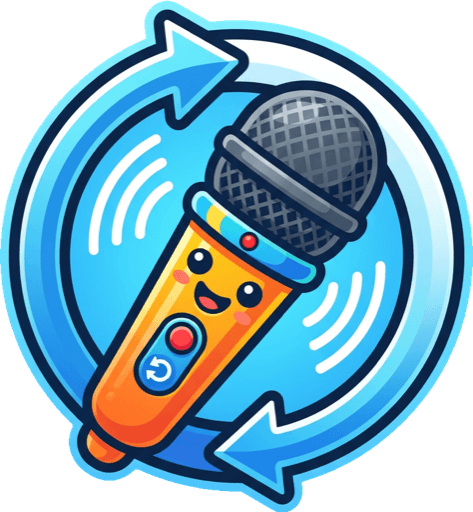
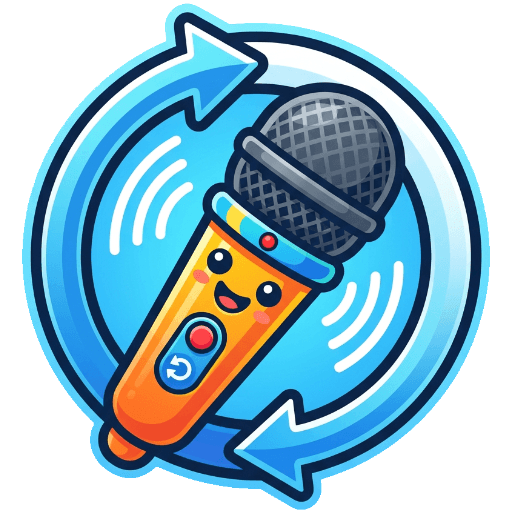
Add an optimise-images script, and compress the new artwork (#14)
* Add an optimise-images script, and compress the new artwork

Adds `bun run optimise-images`, which runs optimizt over `public/` and
`src/assets/` -- the two places images live. optimizt joins as a
devDependency rather than being fetched at run time, so the script is
pinned by the lockfile and works offline. It costs about 34 MB in
node_modules, which CI installs and never uses; that seemed the better
trade against an unpinned bunx.

The artwork in the working tree had been replaced with fresh
unoptimised exports, including a proper vector favicon in place of the
one I drew by hand. Those are compressed here: 1070 KB down to 287 KB,
a 73% saving, with no banding on the gradients and the favicon
rendering identically after svgo.

Sizes against the previous artwork are mixed, because the new exports
are not the old ones recompressed: the icons and the app badge come out
smaller, while the maskable icon and the badge grow slightly, the
maskable one because it is now fully opaque -- which is what a maskable
icon should be, since the OS crops it to a circle.

Documented in the README, and in AGENTS.md with the two things worth
not undoing: the compression is lossy, so it wants running on new
images rather than repeatedly over committed ones, and the maskable
icon fills its square opaquely while the others keep transparent
corners.

* Fetch optimizt with bunx rather than installing it

It is only ever run by hand, so having it in devDependencies made CI
[…]

diff --git a/AGENTS.md b/AGENTS.md
@@ -16,6 +16,8 @@ bun run format:check  # oxfmt — CI fails on this first, so run it before pushi
 bun run lint          # oxlint
 bun run build         # tsc -b, then vite build
 bun run test          # bun test
+
+bun run optimise-images   # optimizt; run after adding or replacing artwork
 ```
 
 CI (`.github/workflows/deploy.yml`) is a single job running exactly those four
@@ -48,6 +50,21 @@ own ring. It lights up and shrinks instead. Other buttons do travel.
 matters here: this is a touch-first app, and an ungated hover leaves buttons
 stuck looking pressed after a tap. Anything revealed on hover needs a tap path
 too.
+
+## Images
+
+Everything in `public/` and `src/assets/` is committed already compressed, via
+`bun run optimise-images`. That fetches optimizt through `bunx` rather than
+installing it, since it is only ever run by hand — so the first run needs a
+network connection, and CI never pays for a tool it doesn't use.
+
+It is lossy, so run it on a newly added image, not repeatedly over one that is
+already in the repo — recompressing a compressed image costs quality and saves
+nothing.
+
+Icons have constraints worth not undoing: the maskable one must fill its square
+opaquely, since the OS crops it to a circle or squircle, while the others keep
+transparent corners so they don't show white against a dark home screen.
 
 ## Store
 

diff --git a/README.md b/README.md
@@ -27,6 +27,12 @@ bun run typecheck     # tsc alone
 bun run test          # unit tests
 ```
 
+Artwork is committed already compressed. After adding or replacing an image:
+
+```bash
+bun run optimise-images   # optimizt over public/ and src/assets/
+```
+
 ## How a round works
 
 1. **Record** — one player is the phrase master for the round; they say
